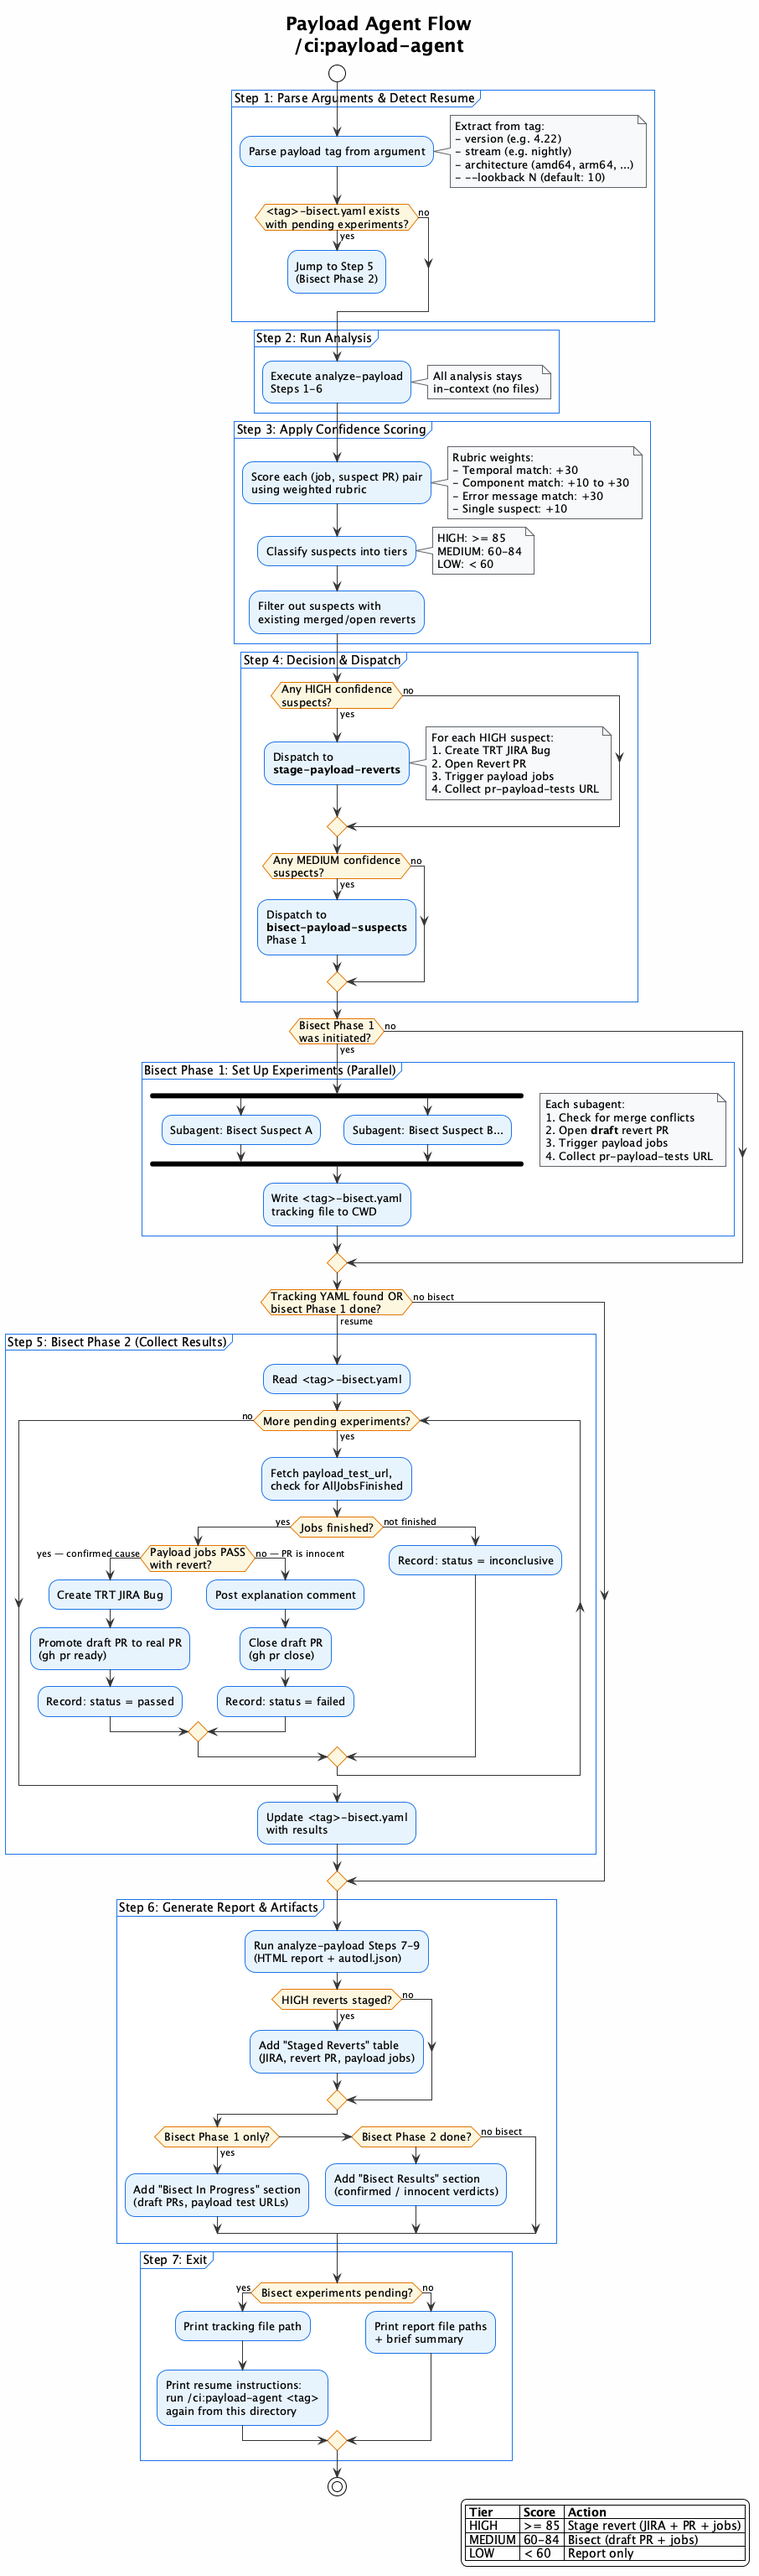
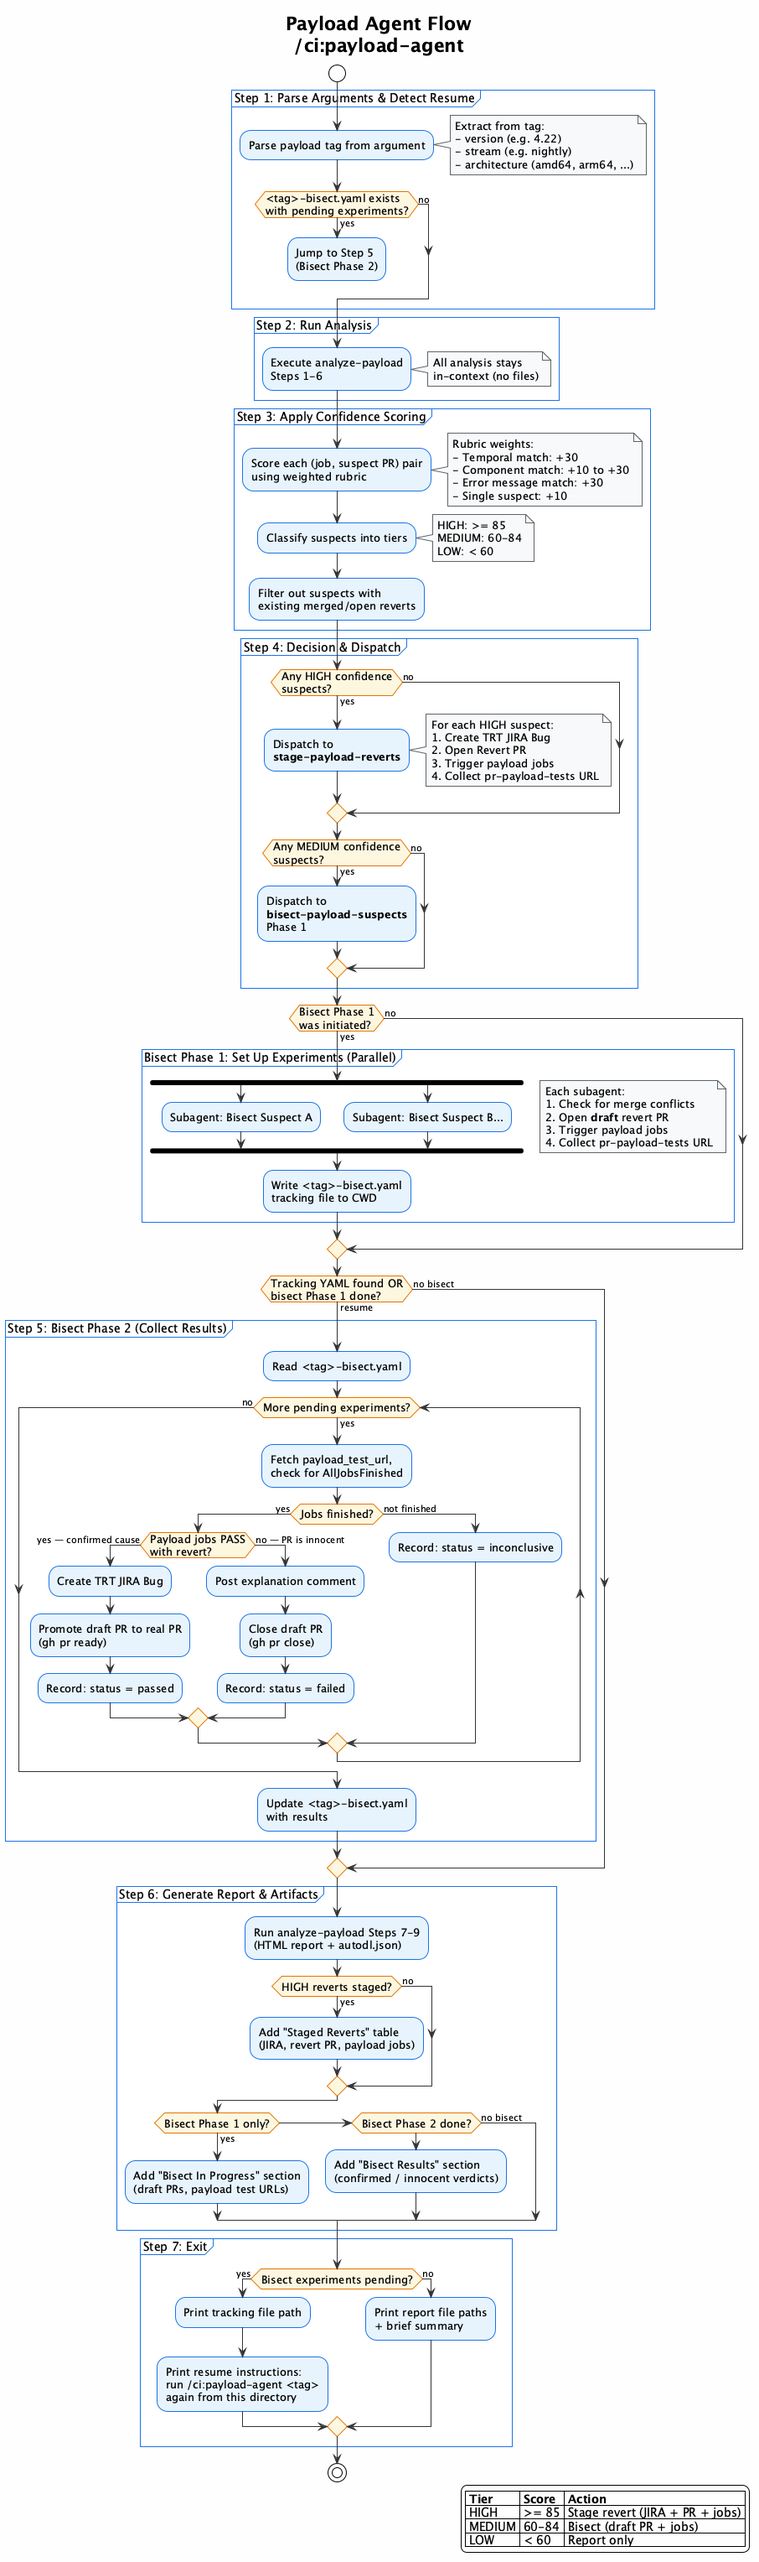
Remove --lookback from payload-agent, use default
The payload agent should always use a reasonable default lookback
(inherited from analyze-payload's default of 10) without exposing
it as a user-facing parameter.

diff --git a/plugins/ci/commands/payload-agent.md b/plugins/ci/commands/payload-agent.md
@@ -1,6 +1,6 @@
 ---
 description: Autonomous agent that analyzes a rejected payload, determines root causes, and takes action based on confidence scoring
-argument-hint: "<payload-tag> [--lookback N]"
+argument-hint: "<payload-tag>"
 ---
 
 ## Name
@@ -10,7 +10,7 @@ ci:payload-agent
 ## Synopsis
 
 ```
-/ci:payload-agent <payload-tag> [--lookback N]
+/ci:payload-agent <payload-tag>
 ```
 
 ## Description
@@ -63,12 +63,7 @@ Load the `payload-agent` skill and follow its implementation steps. The skill or
    /ci:payload-agent 4.22.0-0.nightly-2026-02-25-152806
    ```
 
-2. **Analyze with deeper lookback**:
-   ```
-   /ci:payload-agent 4.22.0-0.nightly-2026-02-25-152806 --lookback 20
-   ```
-
-3. **Resume bisect to collect results** (run the same command again from the same directory):
+2. **Resume bisect to collect results** (run the same command again from the same directory):
    ```
    /ci:payload-agent 4.22.0-0.nightly-2026-02-25-152806
    ```
@@ -76,7 +71,6 @@ Load the `payload-agent` skill and follow its implementation steps. The skill or
 ## Arguments
 
 - $1: A full payload tag (e.g., `4.22.0-0.nightly-2026-02-25-152806`). Version, stream, and architecture are parsed from the tag automatically. (required)
-- `--lookback N`: Maximum number of consecutive rejected payloads to examine (optional, default: 10)
 
 ## Skills Used
 

diff --git a/PLUGINS.md b/PLUGINS.md
@@ -71,7 +71,7 @@ Tools for working with OpenShift CI and analyzing Prow job results
 - **`/ci:fetch-test-report` `<test-name> [release]`** - Fetch a test report from Sippy showing pass rates, test ID, and Jira component
 - **`/ci:list-step` `<workflow-or-chain-name>`** - List the step for the given workflow or chain name
 - **`/ci:list-unstable-tests` `<version> <keywords> [sippy-url]`** - List unstable tests with pass rate below 95%
-- **`/ci:payload-agent` `<payload-tag> [--lookback N]`** - Autonomous agent that analyzes a rejected payload, determines root causes, and takes action based on confidence scoring
+- **`/ci:payload-agent` `<payload-tag>`** - Autonomous agent that analyzes a rejected payload, determines root causes, and takes action based on confidence scoring
 - **`/ci:query-job-status` `<execution-id>`** - Query the status of a gangway job execution by ID
 - **`/ci:query-test-result` `<version> <keywords> [sippy-url]`** - Query test results from Sippy by version and test keywords
 - **`/ci:revert-pr` `<pr-url> <jira-ticket>`** - Revert a merged PR that is breaking CI or nightly payloads

diff --git a/plugins/ci/skills/payload-agent/SKILL.md b/plugins/ci/skills/payload-agent/SKILL.md
@@ -32,7 +32,6 @@ Use this skill when you want fully autonomous payload triage:
 Parse the command arguments:
 
 - `payload_tag` (required): Full payload tag (e.g., `4.22.0-0.nightly-2026-02-25-152806`)
-- `--lookback N` (optional): Maximum lookback depth (default: 10)
 
 Parse from the tag:
 - `version`: e.g., `4.22`
